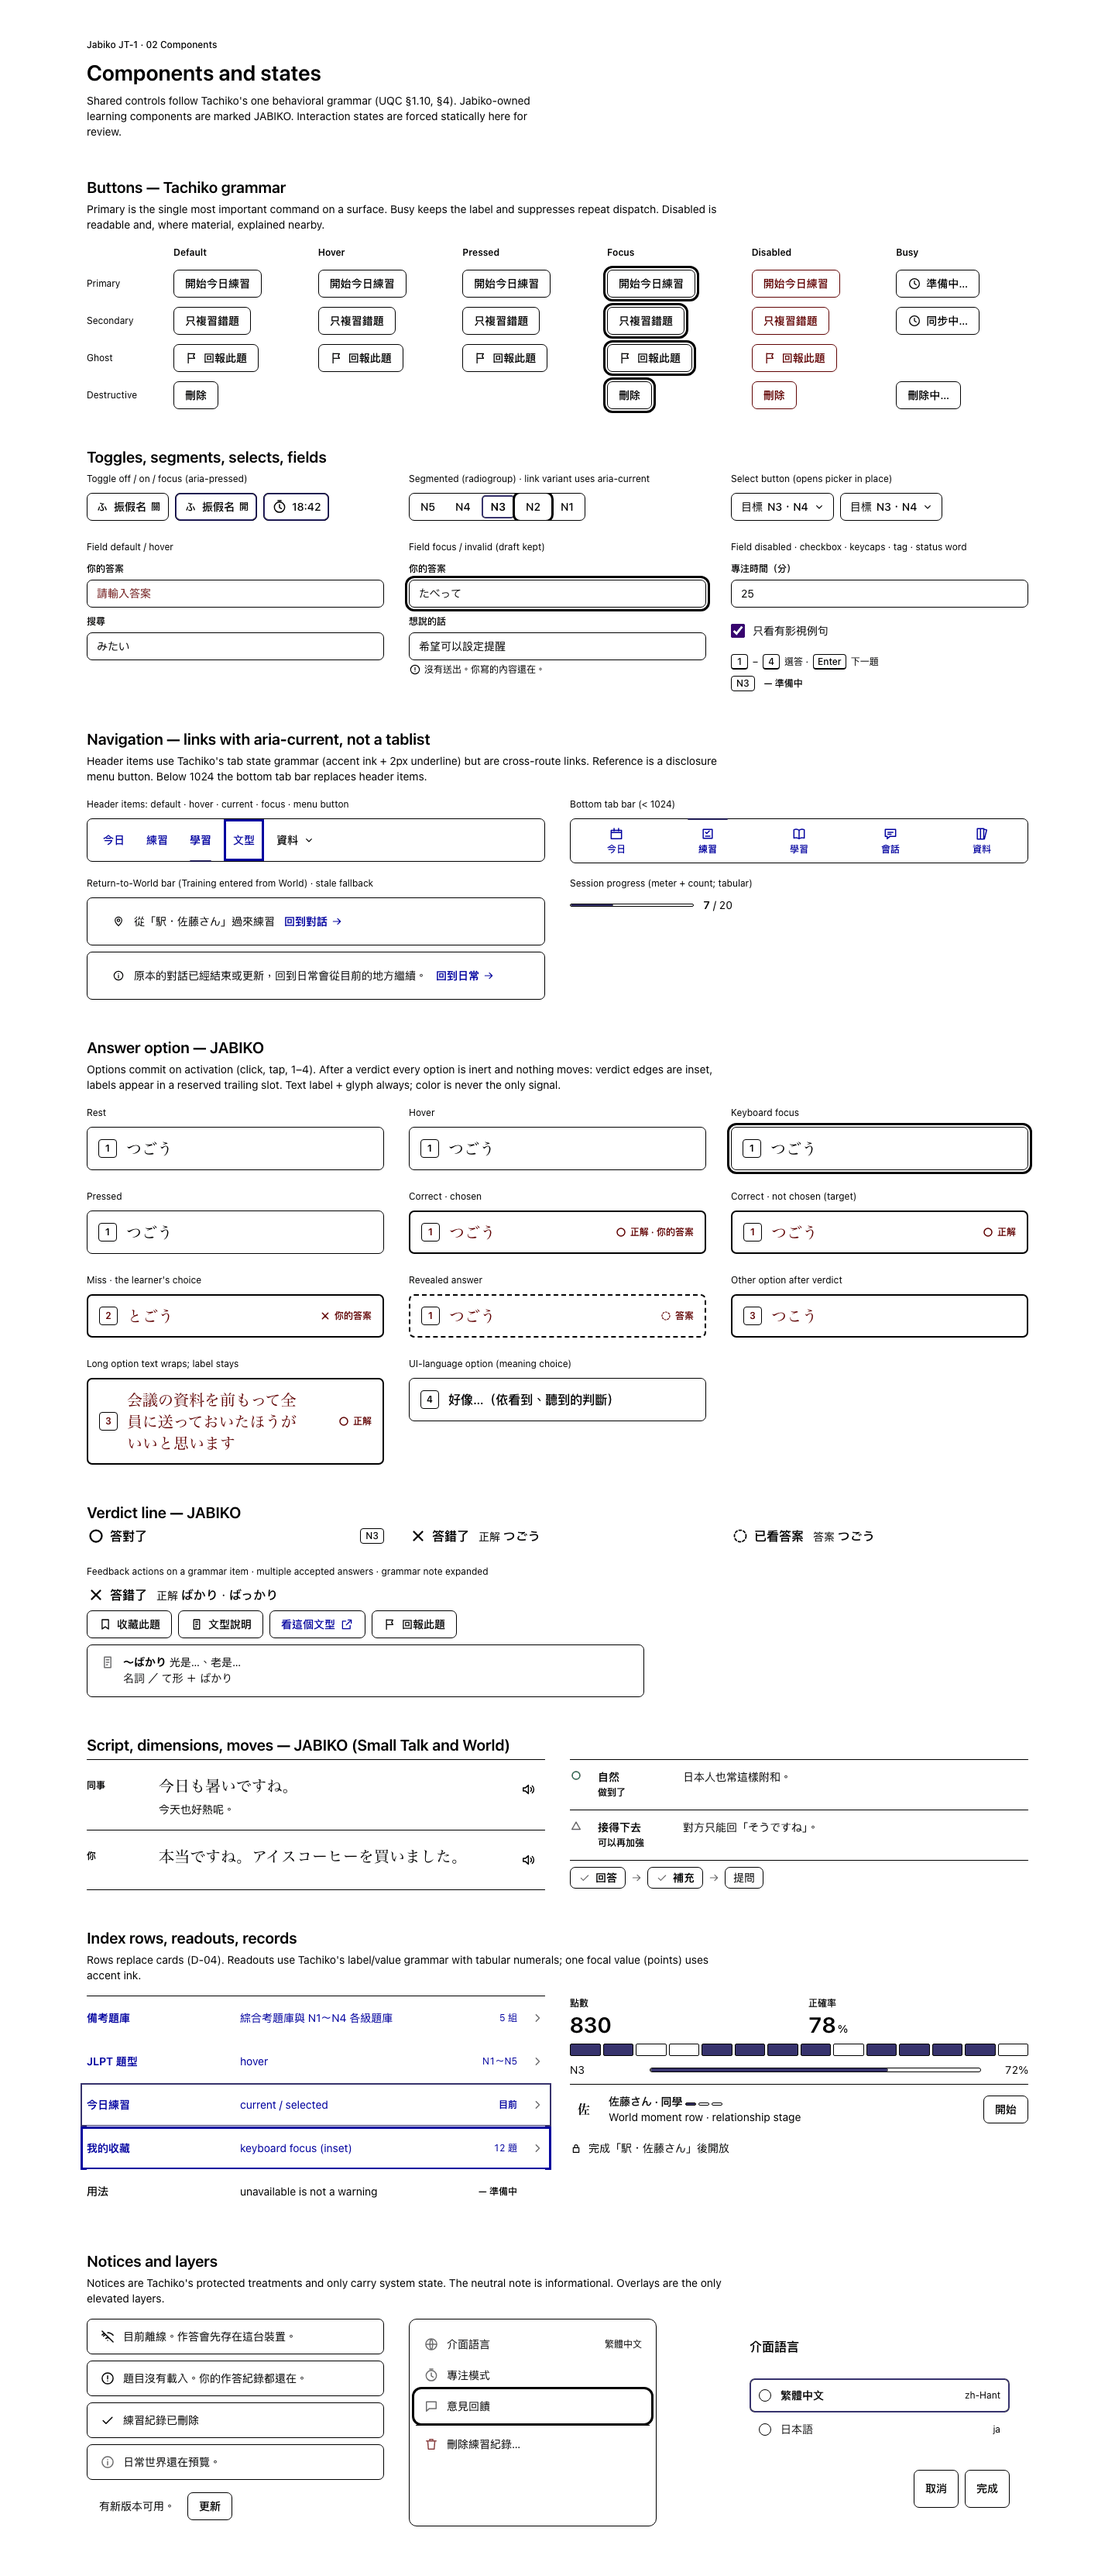
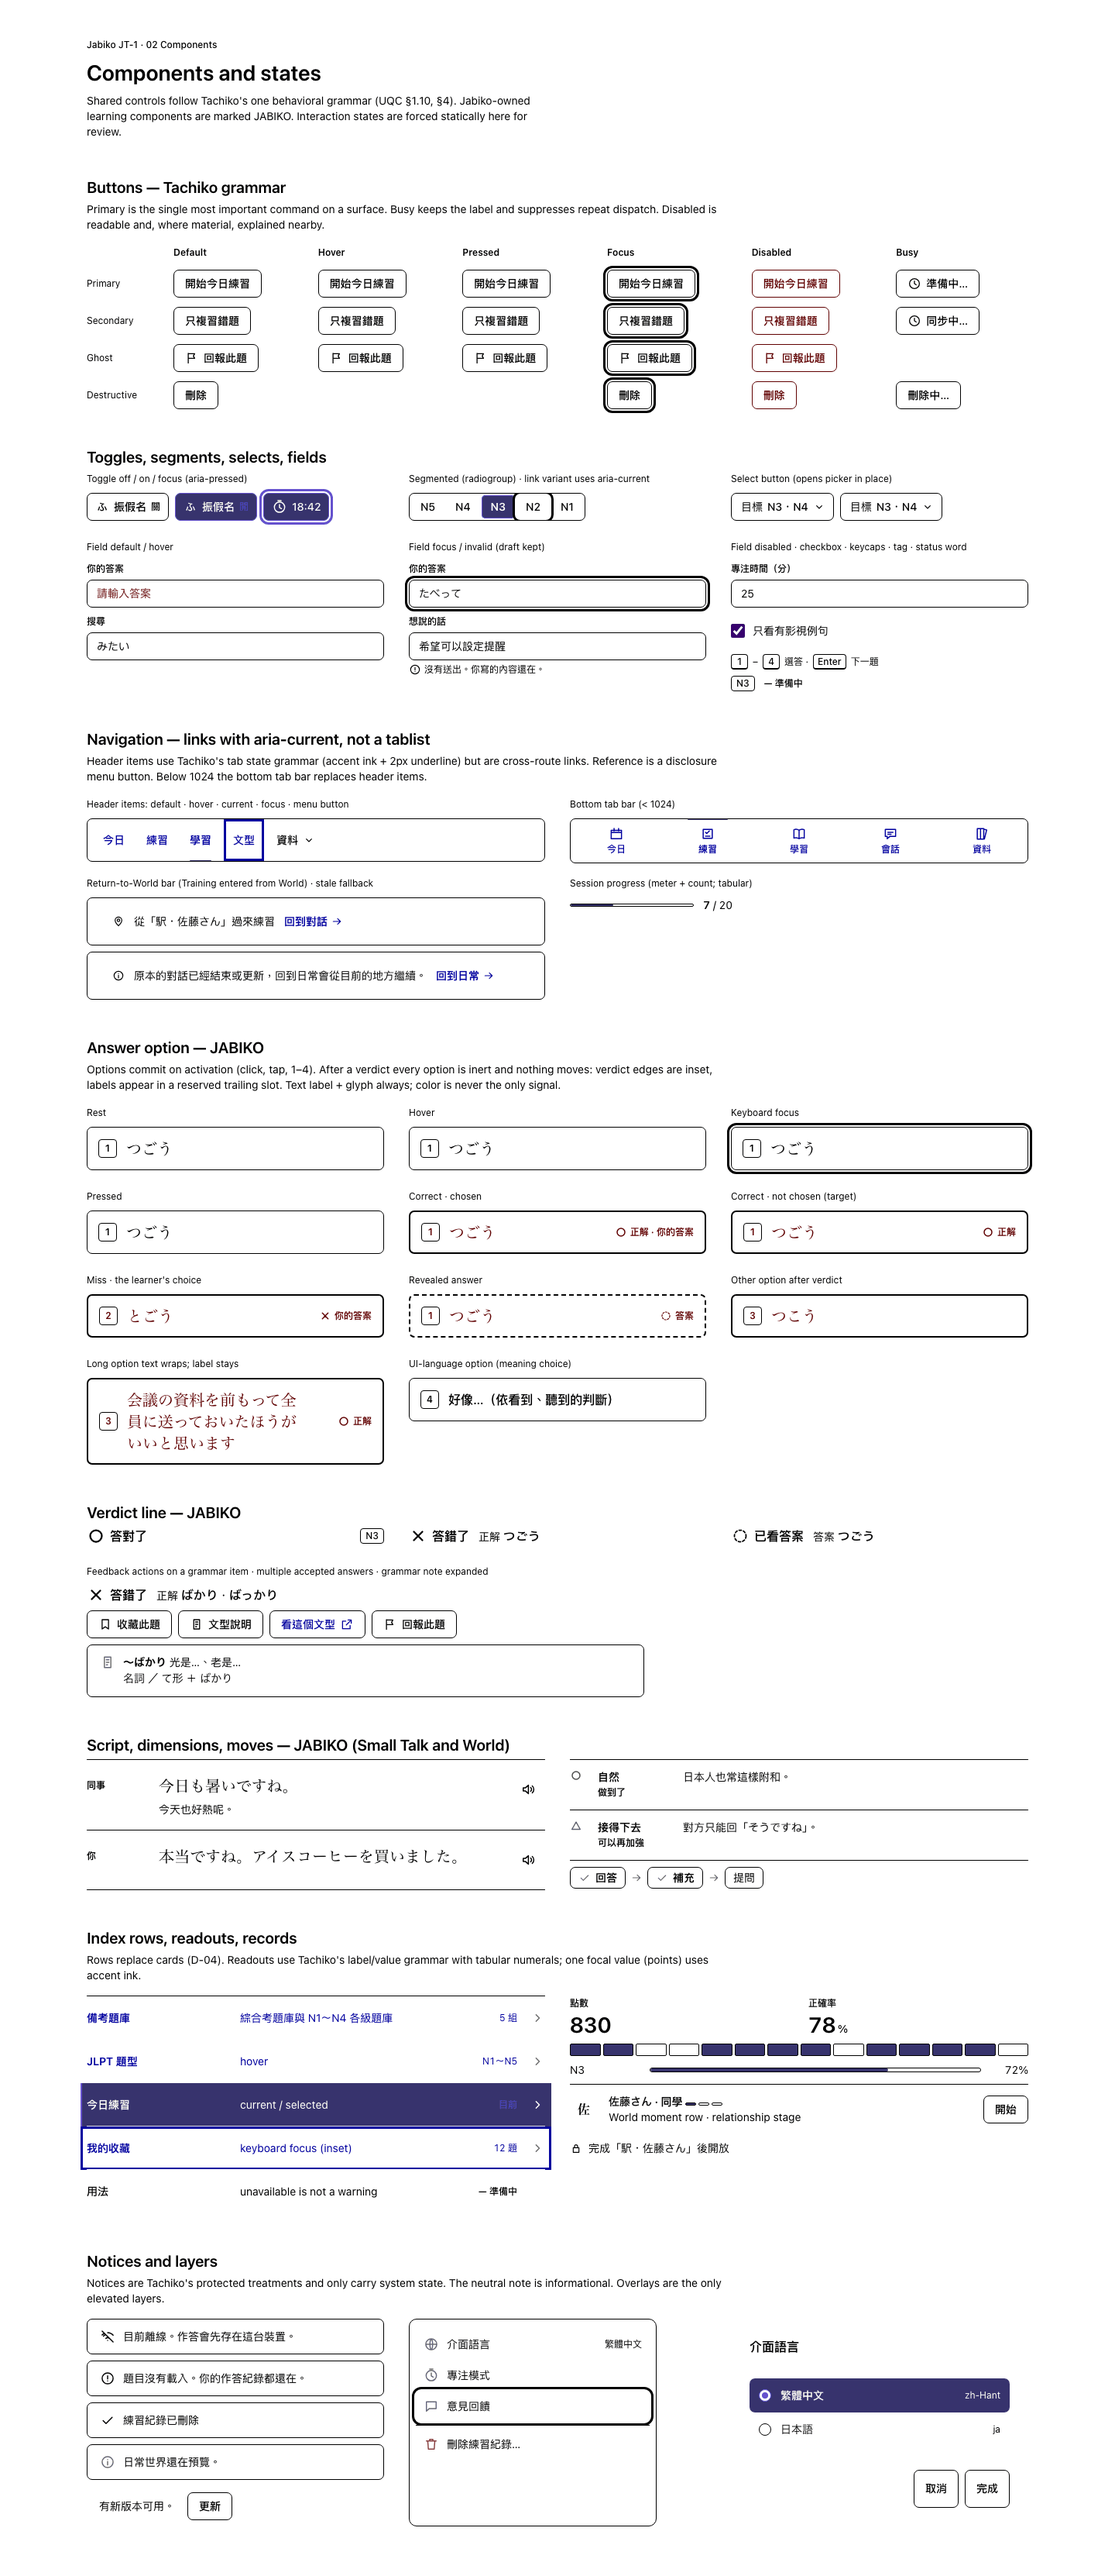
docs(design): apply JT-1 review round 5 (#850)
Forced colors: selection as Highlight fill so the keyboard focus ring stays
distinct (new forced-focus check); endless summary hides the finite edge;
session anatomy text aligned.

diff --git a/docs/design/jabiko/reference/jabiko.css b/docs/design/jabiko/reference/jabiko.css
@@ -749,9 +749,14 @@ button.jt-row { width: calc(100% + 16px); border: 0; background: none; text-alig
   .jt-option-key { border: 1px solid CanvasText; }
   .jt-tab[aria-current="page"]::after, .jt-tabbar a[aria-current="page"]::before, .jt-meter > span, .jt-bar-track > span, .jt-day[data-done], .jt-stage i[data-on] { background: Highlight; forced-color-adjust: none; }
   .jt-day, .jt-bar-track, .jt-meter, .jt-stage i { border: 1px solid CanvasText; }
+  /* Selection uses the system selection fill (Highlight/HighlightText), never
+     an outline, so the 3px keyboard focus ring stays a separate, visible state. */
   .jt-row[aria-current="true"], .jt-row[aria-current="page"], .jt-row[aria-pressed="true"], .jt-choice[aria-checked="true"],
   .jt-segmented button[aria-pressed="true"], .jt-segmented button[aria-checked="true"], .jt-segmented a[aria-current="page"],
-  .jt-cell[aria-pressed="true"], .jt-custom[data-selected] .jt-input, .jt-toggle[aria-pressed="true"] { outline: 2px solid Highlight; outline-offset: -2px; }
+  .jt-cell[aria-pressed="true"], .jt-custom[data-selected] .jt-input, .jt-toggle[aria-pressed="true"] { forced-color-adjust: none; background: Highlight; color: HighlightText; }
+  .jt-row[aria-current] *, .jt-row[aria-pressed="true"] *, .jt-choice[aria-checked="true"] *, .jt-cell[aria-pressed="true"] *, .jt-toggle[aria-pressed="true"] * { color: HighlightText; }
+  :focus-visible { outline: 3px solid CanvasText; outline-offset: 2px; }
+  .jt-row:focus-visible, .jt-tab:focus-visible, .jt-tabbar a:focus-visible, .jt-cell:focus-visible, .jt-menu-item:focus-visible, .jt-choice:focus-visible, .jt-segmented button:focus-visible, .jt-segmented a:focus-visible { outline-offset: -3px; }
   .jt-btn, .jt-toggle, .jt-select-btn, .jt-segmented { border: 1px solid ButtonText; }
   .jt-notice, .jt-note, .jt-panel { border: 1px solid CanvasText; }
 }

diff --git a/docs/design/jabiko/reference/today.html b/docs/design/jabiko/reference/today.html
@@ -36,7 +36,7 @@
   .today-layout { grid-template-areas: "a aside" "b aside"; }
   .today-a { grid-area: a; } .today-b { grid-area: b; } .today-aside { grid-area: aside; }
   @media (max-width: 1023px) { .today-layout { grid-template-areas: "a" "aside" "b"; } }
-  @media (forced-colors: active) { .level[aria-checked="true"] { outline: 2px solid Highlight; outline-offset: -2px; } }
+  @media (forced-colors: active) { .level[aria-checked="true"] { forced-color-adjust: none; background: Highlight; } .level[aria-checked="true"] b, .level[aria-checked="true"] span { color: HighlightText; } }
   .first-facts { display: grid; gap: 12px; font-size: 14px; line-height: 20px; color: var(--jt-text-secondary); }
   .first-facts b { color: var(--jt-text-primary); font-weight: 600; display: block; }
 </style>

diff --git a/docs/design/jabiko/reference/session.html b/docs/design/jabiko/reference/session.html
@@ -66,7 +66,7 @@
       <button class="jt-iconbtn" type="button" aria-label="本次設定：題數、語速、重設" aria-haspopup="dialog"><i data-icon="sliders"></i></button>
       <button class="jt-iconbtn" type="button" aria-label="選單與設定" aria-haspopup="menu"><i data-icon="menu"></i></button>
     </div>
-    <span class="jt-meter-edge" aria-hidden="true"><span style="width:35%"></span></span>
+    <span class="jt-meter-edge" aria-hidden="true" data-state="q correct wrong revealed recall complete perfect empty loading error settings settings-basic settings-range settings-custom"><span style="width:35%"></span></span>
   </header>
 
   <main class="jt-main jt-has-fixed-actions" id="main">

diff --git a/docs/design/jabiko/VERIFICATION.md b/docs/design/jabiko/VERIFICATION.md
@@ -19,6 +19,7 @@ macOS system faces (the harness downloads nothing).
 | Board checks: no horizontal overflow; exactly one visible h1; ≥ 44px targets below 1024px (touch; inline links in running text exempt); Japanese carriers inside `lang="ja"`; every visible control has an accessible name independent of width-hidden text; 3px focus ring on the first 14 Tab stops (1440); bar text never wraps and bar controls never overlap | 12 boards × 51 states × 5 widths (320, 390, 768, 1280, 1440); < 1024 emulated as touch | **255/255** |
 | D-07 geometry: the four options **and Next** keep identical boxes in `q`, `correct`, `wrong`, `revealed` | 5 widths × {short, long} × {zh-Hant, en} | **20/20** |
 | D-07 fold: at 390×844 the verdict line ends above the fixed action row | `session?state=wrong` | **pass** |
+| Forced colours: selected controls that receive keyboard focus still draw a ≥ 3px ring | settings, first-run levels, kanji selection (1440, forced) | **3/3** |
 | Captures | light, dark, forced colors, English overlay, long-content fixture | **95** renders |
 
 Specimen boards (`index`, `foundation`, `components`) are exempt from the
@@ -125,7 +126,18 @@ text, 0 missing text and 0 elements moved** by preparation (fail-closed).
   The reviewer also noted that the keyboard check covers outline styling on
   Tab stops only, not modal containment or radio arrow keys; that remains an
   implementation acceptance item (§4).
-- **Package review, round 5.** See §5.
+- **Package review, round 5 (fresh Codex reviewer).** All four round-4
+  items VERIFIED; parity 66/66, contrast 60/60, Tachiko roles 19/19
+  independently recalculated. Verdict "Blocking findings: 1":
+  1. *Forced-colours selection outline overrode the keyboard focus ring* —
+     **fixed**: selection uses the system selection fill
+     (`Highlight`/`HighlightText`), focus keeps a 3px `CanvasText` outline; a
+     new forced-colours focus check tabs through selected controls on three
+     boards (3/3).
+  Should-fix items fixed: the endless summary no longer shows a finite
+  progress edge; the session anatomy text names the progress-button path and
+  the verdict-first feedback order.
+- **Package review, round 6.** See §5.
 
 ## 4. What design evidence does not prove
 
